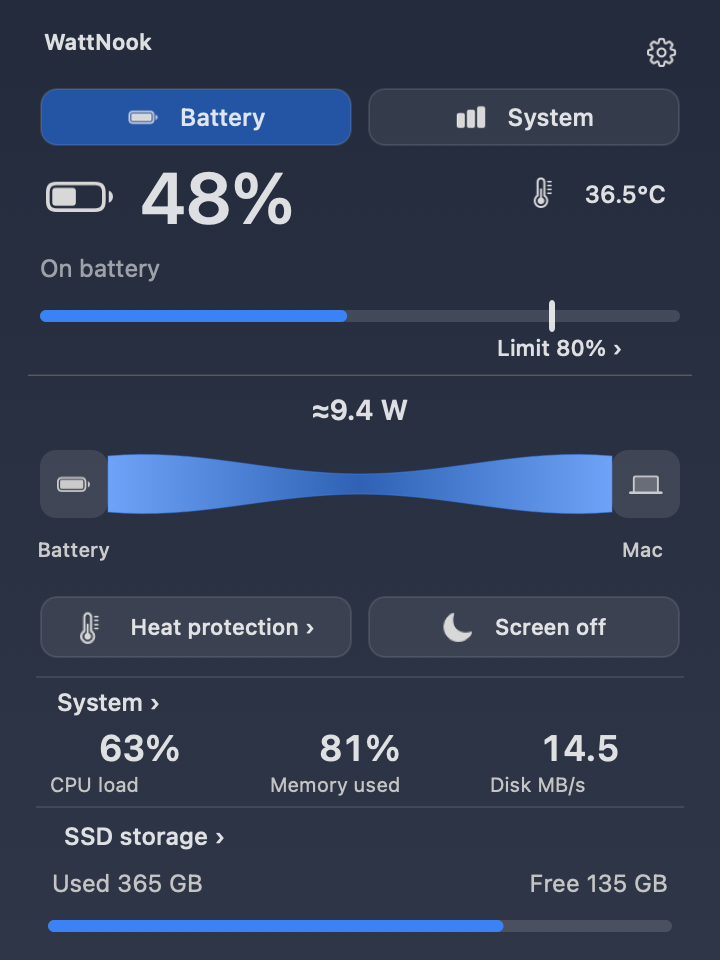
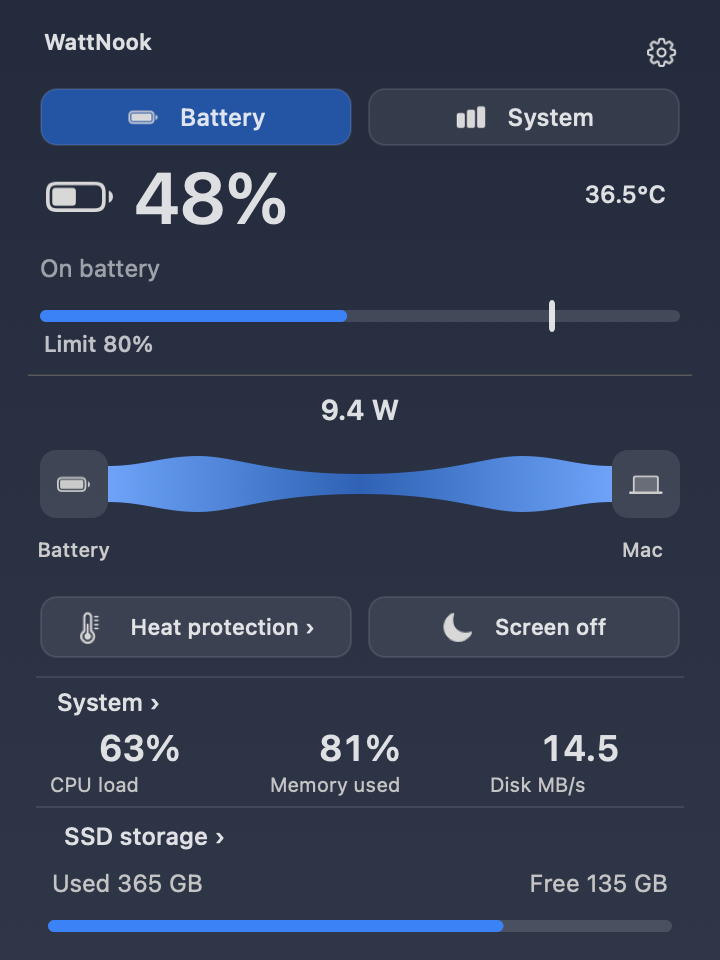
Refresh WattNook documentation and native UI previews

diff --git a/PRODUCT.md b/PRODUCT.md
@@ -45,6 +45,21 @@ Existing AppKit implementation in `pkg/gui/`; previously generated state mockups
 
 ## Verified handoff (2026-09-30)
 
+- Aligned System context row: processes under CPU, Swap under Memory, free storage under Disk. Single-row height and six consumers retained; values reuse existing counters, with no extra polling. Native alignment/GB/TB tests, all Go packages (`go test ./...`), debug Dark Work policy self-tests, packaging and diff checks passed. Installed the aligned-stats build with backup `/tmp/WattNook-before-aligned-stats-20260930.app`. Native System README capture refreshed. User requested publication of accumulated UI/diagnostics/display-wake refinements; target is fork `itscloud0/wattnook`, default branch `thermal-ui`, preserving GPLv2/upstream history. Untracked `docs/menubar-redesign.md` remains outside publication. Next: long-run stability and actual hardware wake validation, then a separate DMG/release task.
+
+- CPU presentation correction: consumer percentages now divide raw per-core CPU by the logical processor count, matching the headline's total-capacity scale. Secondary text is occupied / available core equivalents. Diagnostic menu and tooltips use the same convention; internal sampling and sorting remain unchanged. Native formatter/row tests (234 → 23.4% on ten cores), existing 300-switch regressions, Go GUI tests and packaging passed. This Mac reports 10 logical processors. Installed the CPU-scale build; previous bundle `/tmp/WattNook-before-cpu-scale-20260930.app`. README/Design updated locally, no GitHub push or daemon modification.
+
+- System/stability correction: replaced duplicate I/O/storage lines with one 12 pt Swap/process-count row and six consumer rows. System crash confirmed in unified logs at 08:56–08:57: CPU sort button inherited NSButton tag -1, indexing the three sort keys. Assigned tag 0 and guarded sort/metric/unit inputs and refresh state. Native harness passed 300 tab switches and invalid-index regression. Process CPU previously treated Mach ticks as ns; host-timebase conversion now makes one busy test thread report 92–98%, with PID-start identity checks. Accessible background processes and WattNook itself are ranked; background/self rows cannot Quit. Process scan interval is 2 s open / 6 s closed with autorelease-pool cleanup and timer tolerance. Go GUI tests, native tests and packaging passed. Installed `/tmp/WattNook-stability.app` at the normal app path, previous bundle `/tmp/WattNook-before-stability-20260930.app`. Short closed-popover host sample: 22.9 MB physical footprint (peak 23 MB); this is not a long-term leak test. README and System capture updated. Daemon unchanged; no commit/push. Next: real interaction/long-run stability, then release/DMG work in a separate session.
+
+- Latest correction after rejected short flow shoulders: single-path transitions now span 18% of the ribbon length with matching adjacent cubic tangents. Native Battery rendering checked for smooth contours. The menu-bar icon gets its own 8 pt text gap regardless of percentage visibility; the native harness checks the icon's width contribution and existing percentage spacing. Go tests, expanded native harness and packaging passed. Installed at the usual app path; previous bundle `/tmp/WattNook-before-soft-flow-20260930.app`. Battery README capture refreshed from `/tmp/wattnook-soft-flow-renders/battery.png`. No daemon change or GitHub push.
+
+- Latest visual refinement supersedes the earlier menu-bar SSD-throughput choice: SSD used again shows occupied disk space percentage; read/write activity stays on System. Native harness asserts the SSD storage percentage in the status item's accessibility label. Watt values have no approximation glyph but remain derived, documented estimates; temperature has no icon and the main battery percentage moved 3 pt closer to its symbol. Ribbon ports narrow to at most 18 pt within tile straight edges; single-path ports have smooth 12 pt flares and no seam outline. Checked Battery/Charging/Hybrid renders, all native behavior tests, Go tests and app packaging. Installed new bundle; prior one is `/tmp/WattNook-before-flow-polish-20260930.app`. Native README images updated from `/tmp/wattnook-flow-polish-renders-final/`. Daemon untouched; changes remain uncommitted/unpushed with previous refinements.
+
+- Control fixes: menu-bar SSD used now means internal read+write throughput, not space occupancy; device busy/read/write percentages were not implemented because transfer-time sums are not wall-clock busy time (Apple IOStorageFamily `addToBytesTransferred` accumulates per-request durations). Battery percentage has a 10 pt gap. Limit is a left-aligned static, event-passthrough label; exact presets remain under Advanced. Native hit-testing passed at 20% and 80%, plus the menu-bar spacing check.
+- Dark Work watcher no longer filters wake by HID idle reset or requests sleep again. Any observed display wake ends its own session; old watchers are scoped by caffeinate PID. Debug Swift policy self-tests, Go tests, native harness and app packaging passed. Installed at `/Users/iliasorokin/Applications/WattNook.app`; previous bundle `/tmp/WattNook-before-controls-20260930.app`, daemon unchanged. Physical key/trackpad wake of this revision is not yet verified. Native README captures refreshed from `/tmp/wattnook-controls-renders/`. Changes remain uncommitted/unpushed, including prior System-unit refinement; preserve `docs/menubar-redesign.md`.
+
+- System units refinement: independent saved CPU percent/core equivalents, RAM percent/used bytes and disk throughput/space-used percent/used bytes. Current `vm.swapusage` occupancy is sampled with other system counters; unavailable is distinct from zero. App rows pair relative CPU/RAM with absolute cores/RSS, and disk read/write rates use compact byte units. No per-process disk-utilization percentage is invented. Expanded native harness passed, including saved-unit independence, 3 TB headline/app-row width checks and real host swap sampling; final captures are in `/tmp/wattnook-system-units-renders-final/`. App packaging passed and the updated app is installed; the prior bundle is `/tmp/WattNook-before-system-units-20260930.app`. Daemon unchanged. Changes remain uncommitted; no new GitHub publication was requested for this refinement.
+
 - Refinement: temperature is unboxed, source/destination watt labels are equal-weight, Battery shows SSD used/free GB and an occupancy bar instead of duplicate top-app rows. System adds Disk sorting. Settings persists four palettes and independent menu-bar fields.
 - Power/connection readings now come from one local AppleSmartBattery snapshot every two seconds and after the daemon status callback. Synthetic unplug checks discard stale adapter input and show battery → Mac; zero/unavailable transition readings use an updating state, not a claimed zero-watt load. A physical unplug cycle still needs user confirmation.
 - `go test ./...`, app packaging and the expanded isolated native harness passed. Native captures are in `/tmp/wattnook-refinement-renders-final/`; repository screenshots use illustrative values, not live process data. Per-app disk I/O attribution is best-effort and includes all volumes, unlike the internal-drive summary.
@@ -53,7 +68,7 @@ Existing AppKit implementation in `pkg/gui/`; previously generated state mockups
 - `go test ./...` passes; the bundled Swift helper and app package compile.
 - The six synthetic power states render in `tools/power-flow-preview/`; charging and hybrid paths have a shared trunk, separate endpoints, and labels outside the ribbons.
 - The installed menu-bar app is WattNook. The legacy `batt-thermal` daemon and socket are intentionally unchanged.
-- A real display-sleep/wake test cleared the Dark Work state and its idle-sleep assertion. HID-based recognition of physical versus synthetic activity remains best-effort.
+- An earlier real display-sleep/wake test cleared the Dark Work state and its idle-sleep assertion. The current watcher ends on any display wake, without HID-reset filtering or forcing the display back to sleep; recheck physical wake after installing this revision.
 - User approved A's energy ribbon, parallel actions and app icons, combined with C's separate System detail screen; B was rejected. Implemented this direction in native AppKit, at 360×480 pt. Do not regenerate or switch layouts without a new request.
 - Status item ordering uses `BattThermalCombinedStatus` as its `autosaveName`. Public AppKit offers no always-rightmost position guarantee; user Command-drag placement is preserved by macOS. Startup order must not be described as placement control.
 - `go test ./...` passes. The isolated dashboard harness verifies counter reset/zero-time handling, tabs, keyboard limit commit, animation start/stop, empty telemetry and seven full-popover power states (including inconsistent readings). Internal-drive counters were verified on this Mac. Final native captures are in `/tmp/wattnook-dashboard-renders-final/`; mock values are illustrative.

diff --git a/README.md b/README.md
@@ -41,7 +41,7 @@ WattNook answers two questions: **what is happening to my battery?** and **what 
 
 - **Control charging.** Drag the limit marker from 20–95%, or choose an exact value. Thermal protection has separate pause and resume thresholds.
 - **Follow the power.** Adapter, battery and Mac have distinct paths for charging, held, battery-only and hybrid power. Labels stay outside the ribbons. A coherent local snapshot refreshes every two seconds; transitions show “updating” instead of fabricated zero-watt loads.
-- **Find the heavy app.** System sorts apps by CPU, resident memory or disk read + write rate, with app icons and normal Quit after confirmation. Helper processes are included where they can be attributed.
+- **Find the heavy app.** System shows six consumers sorted by CPU, resident memory or disk read + write rate. Attributed helpers are grouped with their apps; accessible background processes and WattNook itself are included. Normal Quit requires confirmation and is available only for eligible apps, not background processes or WattNook.
 - **Understand storage.** Battery shows used/free space and a capacity bar. System separates internal-drive read/write MB/s from storage occupancy.
 - **Keep work running, screen off.** The bundled display helper keeps the Mac awake; normal key/trackpad wake clears the session automatically.
 
@@ -50,8 +50,9 @@ WattNook answers two questions: **what is happening to my battery?** and **what 
 Open the gear in the popover:
 
 - Choose **Blue, Mint, Violet or Amber**. The accent, ribbon and graphite surface update together.
-- Show any combination of **CPU load, RAM used, SSD space used and battery percentage** in the menu bar.
+- Show any combination of **CPU load, RAM used, SSD space used and battery percentage** in the menu bar. **SSD used** means occupied disk space as a percentage. Read/write throughput remains available in System.
 - Keep or hide the battery icon. CPU-only, CPU + RAM, battery percentage-only and other combinations are supported.
+- Click each headline metric on **System** to independently cycle its saved units: CPU percentage/core equivalents, RAM percentage/used bytes, disk throughput/space-used percentage/used bytes. One aligned row adds context: **process count under CPU**, **swap used under Memory**, and **free space under Disk**. Consumer rows pair CPU percentages with core equivalents, RSS bytes with physical-RAM percentage, or separate disk read/write rates.
 - Choices persist across restarts. Turning everything off retains the battery icon so the app stays reachable.
 - Advanced battery controls remain one click away.
 
@@ -67,14 +68,17 @@ Open the gear in the popover:
 | Metric | Meaning |
 | --- | --- |
 | CPU load | Whole-system CPU busy percentage |
-| App CPU | One full CPU core = 100%; an app can exceed 100% |
+| App CPU | Percentage of total CPU capacity, on the same scale as CPU load; second line shows occupied / available core equivalents |
 | Memory used | Physical memory usage estimate, not memory pressure |
 | App memory | Resident memory (RSS), including attributed helpers |
+| Swap used | Current system swap occupancy from `vm.swapusage`; separate from RAM used and swap-file capacity |
 | Disk MB/s | Internal-drive read + write throughput, decimal MB/s |
 | App Disk | Per-process disk I/O rate across volumes, aggregated with attributed helpers; best-effort |
 | SSD used / free | Storage occupancy, **not** an SSD utilization percentage |
 
 Disk counters are sampled every two seconds. Unavailable or reset counters are shown as unavailable until a valid delta arrives; they do not become traffic spikes. Some apps' disk activity may not be attributable, and app totals need not match whole-drive totals.
+
+Process scans run every two seconds while the popover is open and every six seconds while closed. CPU deltas convert Mach ticks using the host timebase; PID reuse resets the baseline. Both headline and consumer percentages use total CPU capacity as their denominator. For example, 2.34 occupied cores out of 10 means 23.4% CPU, with `2.34 / 10 cores` shown below. These are time-based core equivalents, not performance/efficiency-core-weighted computing power. The list is not a complete accounting of kernel/system CPU: macOS may deny access to some processes.
 
 ## How it works
 
@@ -108,7 +112,9 @@ The script builds the UI, bundles the Dark Work helper, and packages the app ico
 
 ## What the display control does
 
-It requests macOS display sleep and holds an idle-sleep assertion. It no longer forces hardware brightness to zero. A normal key/trackpad wake restores the screen at its previous brightness; the bundled watcher then releases the assertion and clears the active state. If the display wakes without fresh HID activity, the helper requests display sleep again. Synthetic input may still look like real activity to macOS, so this is best-effort rather than a guarantee against every automation waking the screen. It is not a lid-closed or clamshell solution.
+It requests macOS display sleep and holds an idle-sleep assertion. It no longer forces hardware brightness to zero. Any observed display wake ends the session: the bundled watcher releases the assertion and clears the active state without requesting sleep again. This includes a key/trackpad wake and an automation-triggered wake. The normal macOS brightness is preserved. Watchers are scoped to their own session so an old watcher cannot clear a later activation. It is not a lid-closed or clamshell solution.
+
+The charge-limit label is non-interactive and sits below the rail on the left, so it cannot intercept dragging. Use the marker (or keyboard arrows with the rail focused) to adjust the limit; exact presets remain in Advanced controls.
 
 ## Status and limits
 

diff --git a/DESIGN.md b/DESIGN.md
@@ -29,6 +29,8 @@ spacing:
 
 # Design System: WattNook
 
+Consumer CPU percentages use the same total-capacity scale as the CPU headline, with one decimal place. The secondary line shows occupied / available core equivalents (e.g. 2.34 / 10 cores). Raw per-core CPU samples stay unchanged for sampling and sorting; normalization happens only at presentation, including the diagnostic menu.
+
 ## Overview
 
 **Creative North Star: “The Mac power instrument.”** One compact menu-bar surface joins AlDente-like battery control with immediately useful system diagnostics. Battery and system each own a visibly separate region. State and meaning lead; ornament does not.
@@ -39,11 +41,11 @@ The popover uses an accent-tinted graphite native surface. Blue (default), Mint,
 
 ## Typography
 
-Use the system font for native legibility. The battery percentage is 36 pt; system measurements are 14 pt with tabular digits; state and action labels are 11–13 pt. Every watt value includes a source or destination label and an approximation sign when derived.
+Use the system font for native legibility. The battery percentage is 36 pt; system measurements are 14 pt with tabular digits; state and action labels are 11–13 pt. Watt values omit the approximation glyph for a cleaner display; telemetry is still derived and documented as approximate. Temperature is plain text with semantic heat color and no thermometer icon. Battery percentage sits 3 pt closer to its icon.
 
 ## Layout
 
-The popover is 360×480 pt with Battery/System tabs. Battery retains the approved A composition: percentage plus unboxed temperature, 220 pt power region, parallel Heat protection/Screen off buttons, three small metrics and an SSD used/free storage bar. Duplicate app rows stay on System only. System follows approved C: detailed metrics, separate disk read/write and storage values, CPU/Memory/Disk sort controls, five app rows and Activity Monitor. Settings replaces the page content without enlarging the popover. A compact layout never removes the meaning of a value to save space. Watt labels occupy their own lanes, away from ribbons and endpoint symbols, with matching weight and size across sources and destinations.
+The popover is 360×480 pt with Battery/System tabs. Battery retains the approved A composition: percentage plus unboxed temperature, 220 pt power region, parallel Heat protection/Screen off buttons, three small metrics and an SSD used/free storage bar. Duplicate app rows stay on System only. System follows approved C: three detailed metrics, one readable Swap/process-count row, CPU/Memory/Disk sort controls, six consumer rows and Activity Monitor. Storage/I/O details are not repeated below the headline metrics. Settings replaces the page content without enlarging the popover. A compact layout never removes the meaning of a value to save space. Watt labels occupy their own lanes, away from ribbons and endpoint symbols, with matching weight and size across sources and destinations.
 
 ## Elevation & Depth
 
@@ -51,11 +53,15 @@ The graphite surface has a restrained tonal gradient. Translucent buttons share 
 
 ## Shapes
 
+Energy ribbons enter the flat middle of endpoint tiles through ports no taller than 18 pt. Single-path transitions span 18% of the ribbon length instead of short shoulders; adjoining cubic tangents match to avoid sharp contour changes. Split/merge boundaries keep their original widths. No vertical outline is drawn at the tile seam. The menu-bar battery icon has a dedicated 8 pt gap after text, including when battery percentage is hidden; its percentage retains a separate 10 pt gap from the CPU/RAM/SSD stack.
+
 Use native status-icon states and aspect-fitted SF Symbols. The flow has one source-to-destination path or a clean split/merge with no overlapping translucent strokes. The charge rail has a separate draggable limit marker.
 
 ## Components
 
-The exact charge limit remains available from the rail label. Heat protection and display controls are direct actions. CPU, memory and disk measurements have distinct captions. Each System app has a normal Quit action with confirmation; the list never implies it can force-quit. Settings persists palette and individual CPU/RAM/SSD/battery-percentage/icon choices. An empty selection retains the battery icon so the app stays reachable.
+System headline metrics cycle their own saved units on activation, indicated by ↔ in the caption. The surface stays 360×480 pt. A single 12 pt context row aligns accessible-process count under CPU, swap used under Memory, and free storage under Disk. The three values use existing counters and no extra polling; compact byte units fit their slots without increasing height. Consumer usage has two right-aligned lines (CPU/core equivalents, RSS/RAM percentage, or read/write rates). Compact byte units promote B→KB→MB→GB→TB and beyond; number text fits its slot instead of truncating units. Background processes and WattNook are included without a Quit button.
+
+The charge-limit label is static, left-aligned below the rail and passes pointer events through to the slider. Exact presets remain in Advanced controls. Heat protection and display controls are direct actions. CPU, memory and disk measurements have distinct captions. Each System app has a normal Quit action with confirmation; the list never implies it can force-quit. Settings persists palette and individual CPU/RAM/SSD-space-used/battery-percentage/icon choices. The battery percentage is separated from the metric stack by 10 pt. An empty selection retains the battery icon so the app stays reachable.
 
 ## Do's and Don'ts
 
